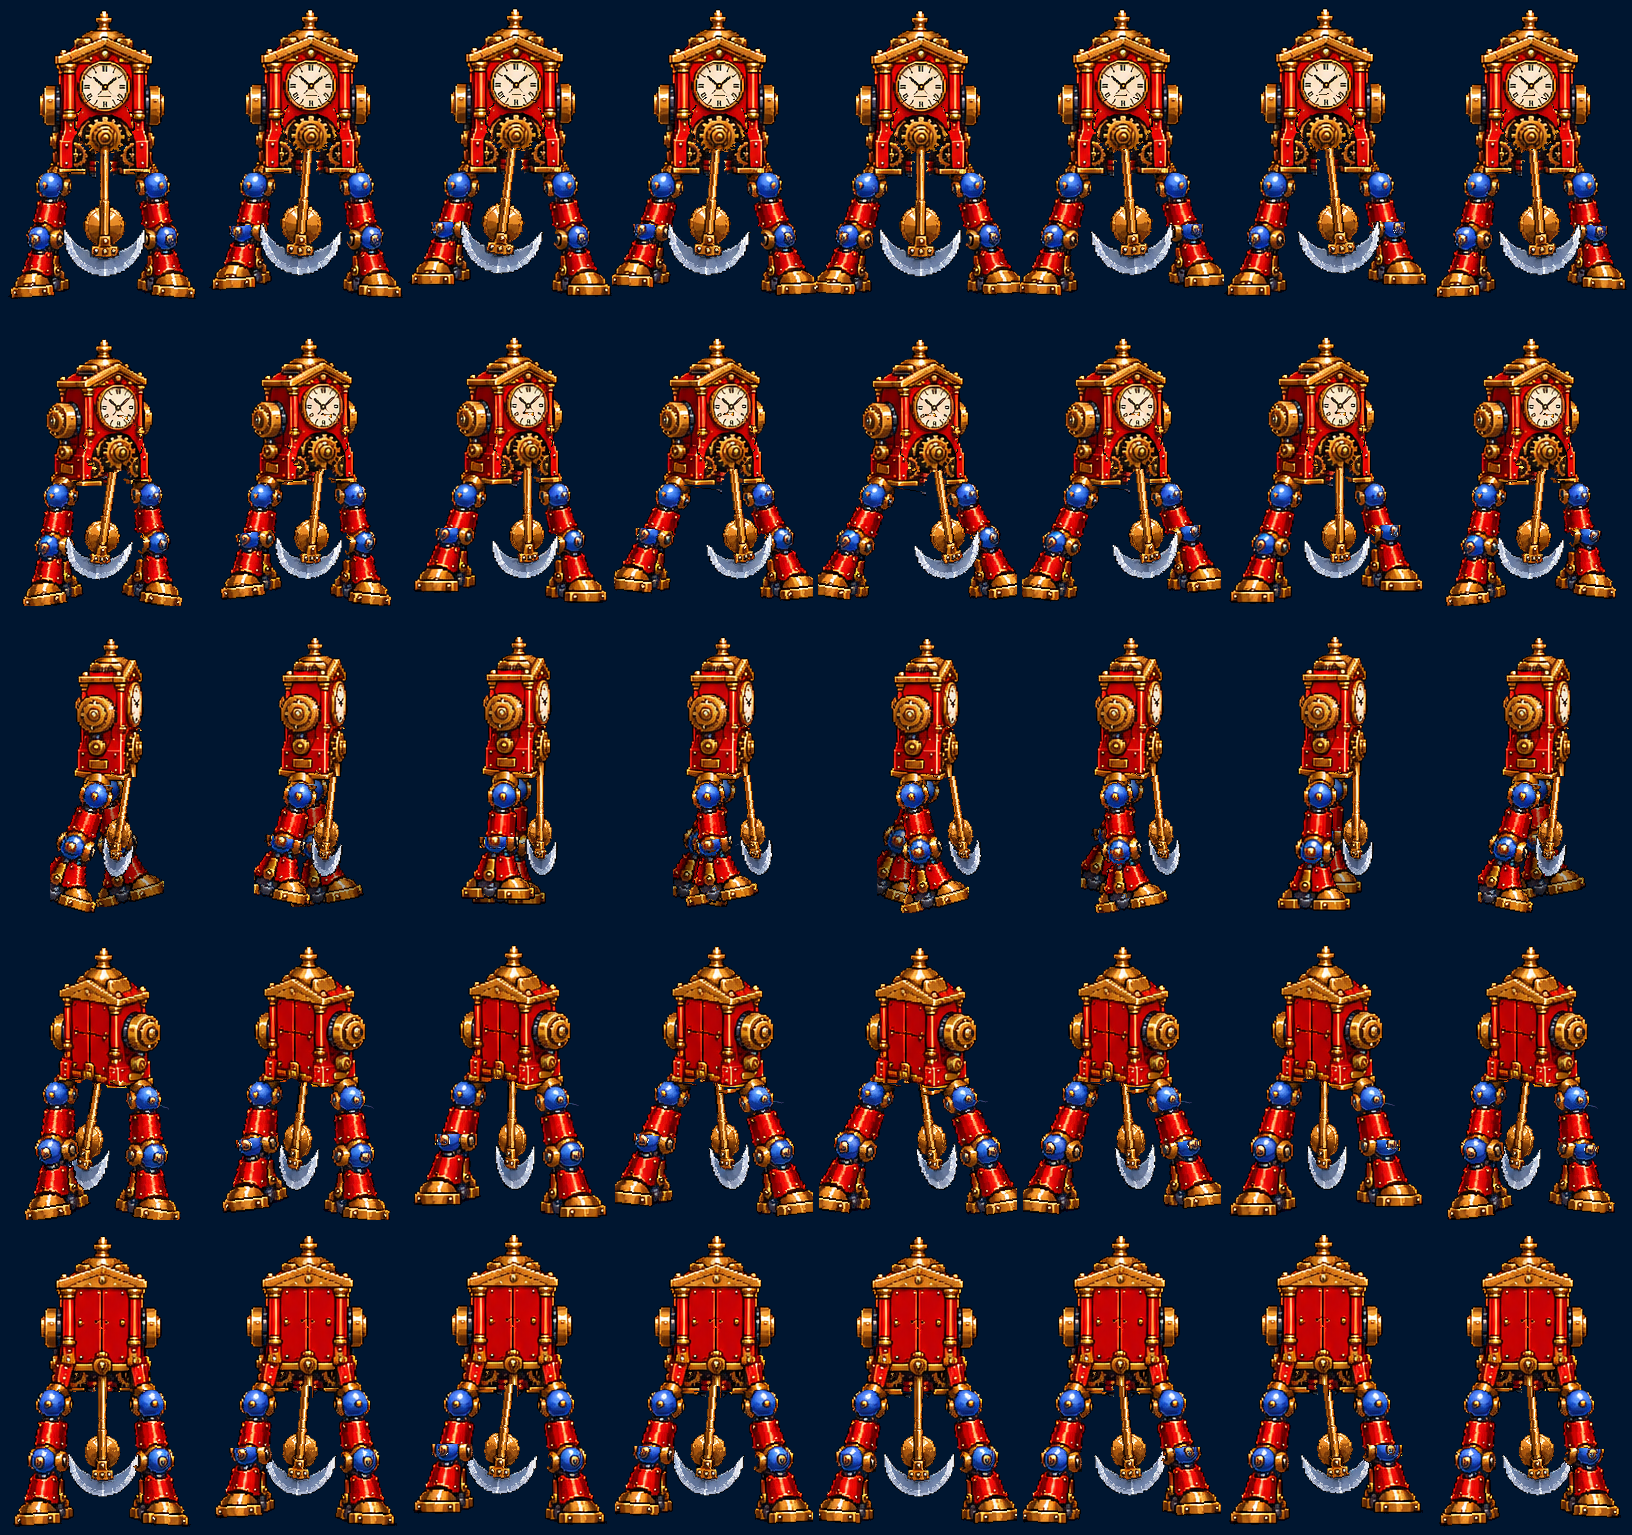
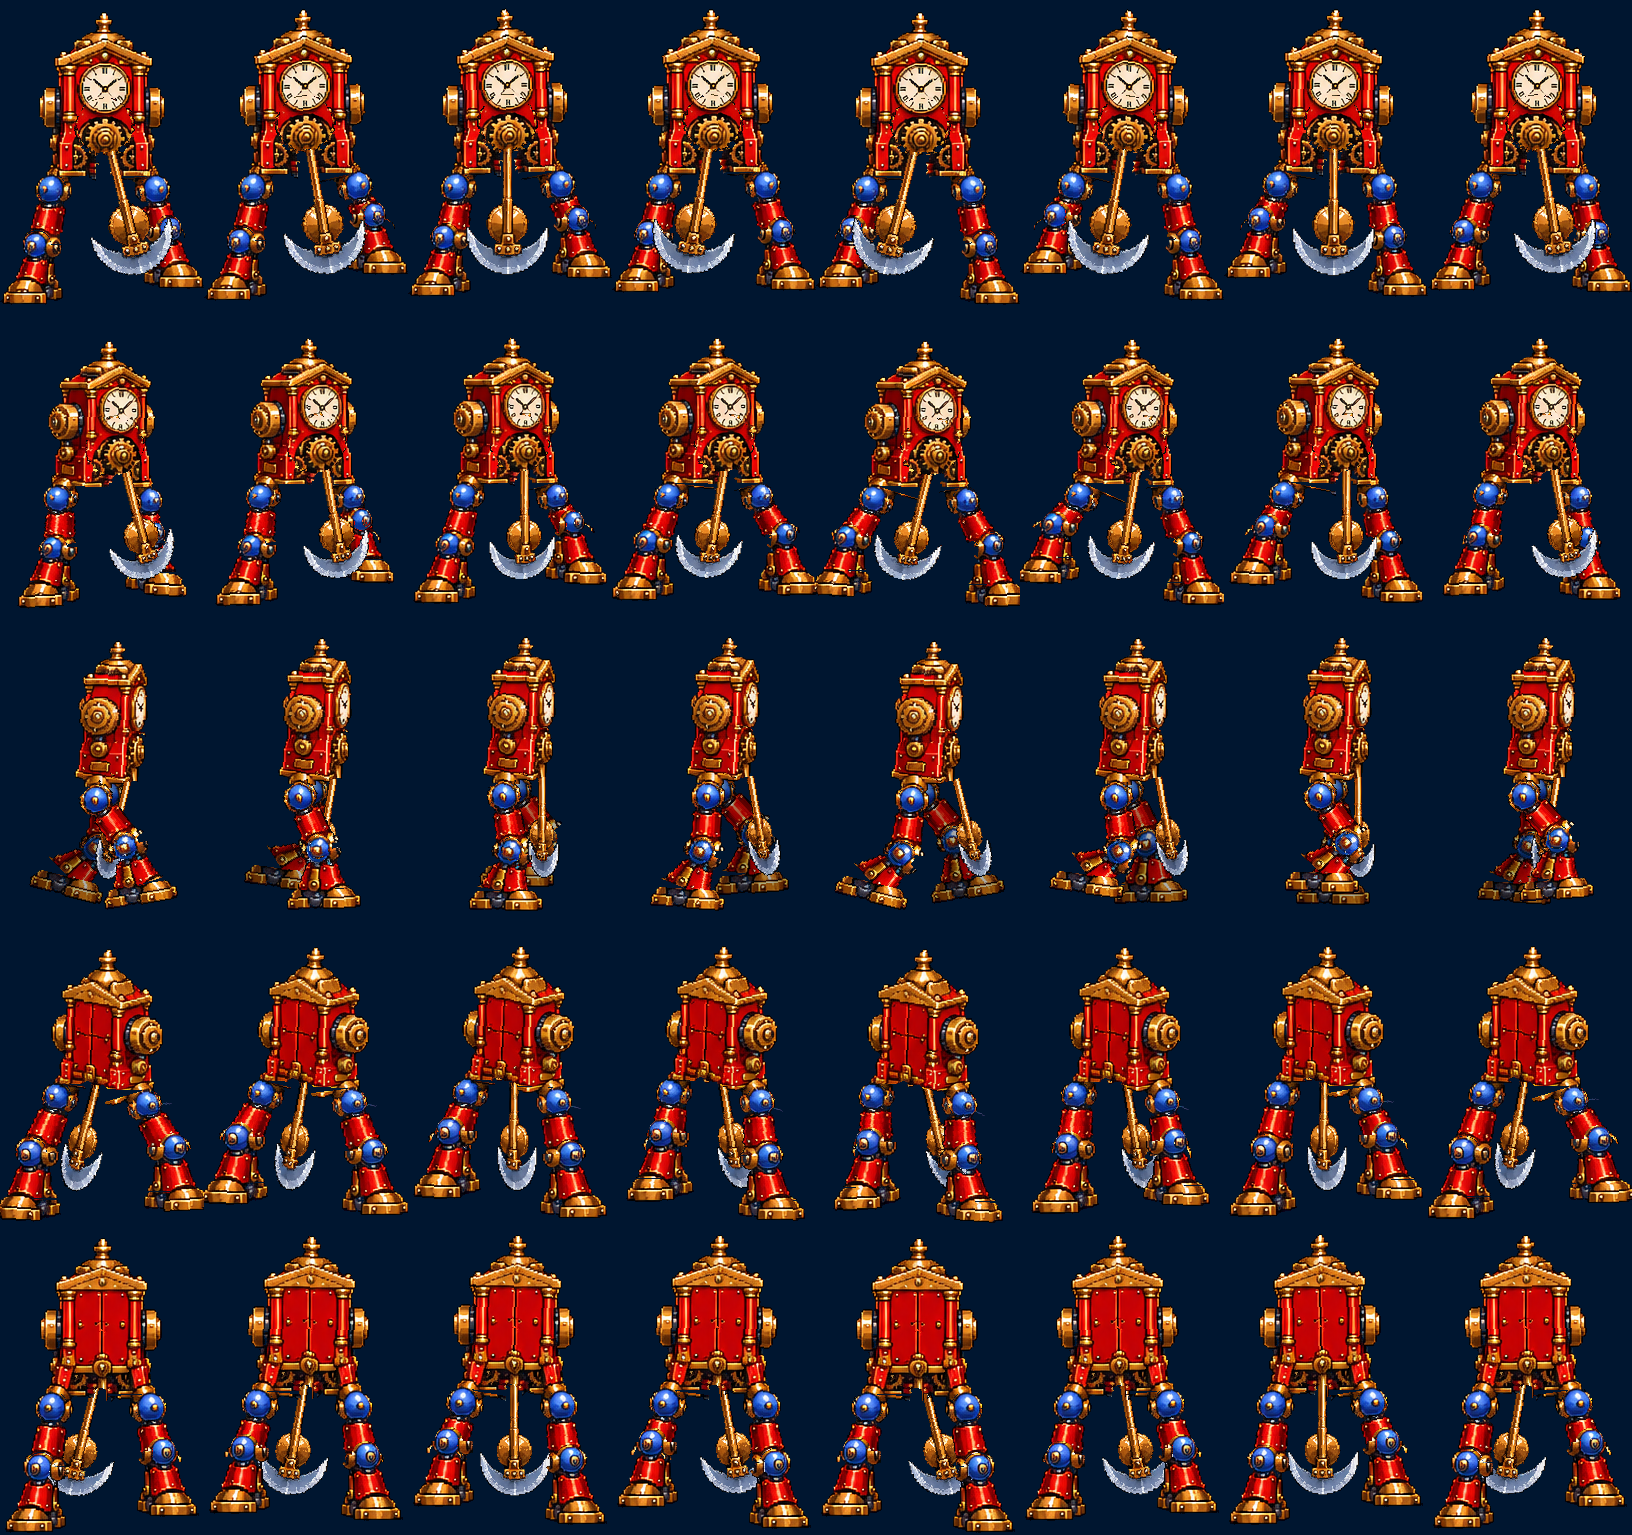
Art: Pendulum walk v3, long strides driven by the pendulum's swing
Two-bone IK legs in the side view (heel strike, flat stance, heel-off push,
toe-down swing, far leg half a cycle behind), telescoping knees in the
front, back and 3/4 views, a stomp dip at double support, and the pendulum
swinging +-14 deg in step: as it swings right the screen-left leg steps.

Claude-Session: https://claude.ai/code/session_01NtmEZhP1uA8k4DLQ7BYfMz

diff --git a/tools/pendulum_guide/walk.py b/tools/pendulum_guide/walk.py
@@ -1,85 +1,227 @@
-"""Pendulum WALK in code from the same painted direction sheet (via anim.py's cut-out body, pendulum and hub): the legs
-are cut off at the hip balls; each leg swings about its hip (a stiff stride, strongest in the side views) and lifts
-by sliding its shin up into the thigh (a telescoping mechanical knee); the body dips when both feet are down and rocks
-over the standing leg; the pendulum lags behind the rocking. The side view's far leg walks half a step behind.
+"""Pendulum WALK in code (v3: long strides, the pendulum drives the gait) from the painted direction sheet, via
+anim.py's cut-out body, pendulum and hub.
+- Each leg = thigh (hip ball to knee), shin (knee ball and the red skirt) and foot (the brass dome and sole), cut at
+  the blue balls and where the skirt meets the dome; the hip ball rides with the body. A two-bone IK (hip to ankle,
+  the knee bends forward) puts the foot on a long stride: a standing foot stays FLAT and slides back at a steady
+  speed (planted while the unit moves), a stepping foot lifts, dangles toe-down and lands flat again.
+- The stride is 3D-ish: each row projects "forward" on screen (side view: across; front and back views: a little
+  down or up; there the bones stretch or shorten along their length instead of turning).
+- The body dips when both feet are down (a heavy stomp; the same dip in every row, set by the side view), sways
+  over the standing leg, leans a little into the walk. The pendulum swings (smaller and slower than the attack) and
+  drives the legs (owner, 2026-10-26): as it swings right the screen-left leg steps forward, as it swings left the
+  screen-right one (side view: swinging forward = the far leg steps, back = the near leg).
 Out: art/redraws/pendulum_walk.png/.gif (5 rows x 8 frames, cells 204 x 307 like pendulum_idle.png)."""
 import math, numpy as np
 from PIL import Image
 from scipy import ndimage as ndi
 exec(open('tools/pendulum_guide/anim.py').read().split("CW,CH=204,307")[0])
-CW,CH=204,307
-# per row: [(hip x, hip y, knee y), ...] from the blue balls; swing amplitude (deg); rocking (px)
-LEGS=[([(52,179,231),(158,179,231)],4,3),
-      ([(56,161,208),(148,159,205)],9,2),
-      ([(46,162,219)],16,0),
-      ([(54,150,206),(144,155,212)],9,2),
-      ([(48,170,227),(148,170,228)],4,3)]
-LIFT=11
+CW,CH=204,307; N=8; PAD=140
+A_STEP=45.0      # a foot travels +-A_STEP px forward/back of the hip (side view px)
+LIFT=19.0        # how high the stepping foot lifts
+HEEL=10.0        # a foot lands heel first, toe up (deg, side view)
+PUSH=14.0        # and pushes off with its heel lifted (deg)
+SWING=14.0       # the pendulum's swing while walking (deg; the attack goes to 62)
+LEAN=2.5         # body leans into the walk (side view, deg)
+ROCK=3.0         # body sways over the standing leg (front view, px)
+ROLL=1.5         # and tilts with it (deg)
+DEPTH=0.17       # screen y per px of forward motion towards/away from the camera (S: the front foot drops 7.7 px)
+FWD=[(0.0,DEPTH),(0.28,0.7*DEPTH),(1.0,0.0),(0.28,-0.7*DEPTH),(0.0,-DEPTH)]   # "forward" on screen per row
+# (the painted 3/4 views hold their legs side by side like the front view, so their stride is mostly up/down too:
+#  a full sideways stride there made the legs do the splits)
+SIDE=[-1.0,-0.7,0.0,0.7,1.0]     # the unit's RIGHT leg: on screen left (-) or right (+), and the sway's share
+PSIGN=[1,1,-1,-1,-1]             # pendulum swing direction while the right leg steps (see the docstring)
+LEANK=[0.0,0.7,1.0,0.7,0.0]
+FAR_SHADE=FARLEG['shade']; FAR_OFF=(FARLEG['dx'],FARLEG['dy'])
+
 def comp_at(mask,x,y):
     lab,n=ndi.label(mask)
     k=lab[y,x]
     if k==0:
         ys,xs=np.nonzero(mask); i=int(np.argmin((xs-x)**2+(ys-y)**2)); k=lab[ys[i],xs[i]]
     return lab==k
+def blue_balls(B):
+    R_,G_,Bc,Aa=[B[...,i].astype(int) for i in range(4)]
+    blue=(Aa>0)&(Bc>R_+40)&(Bc>110)
+    lab,n=ndi.label(blue); out=[]
+    for i,s in enumerate(ndi.find_objects(lab)):
+        m=lab==i+1
+        if m.sum()<40: continue
+        ys,xs=np.nonzero(m)
+        out.append(dict(x=float(xs.mean()),y=float(ys.mean()),r=max(s[0].stop-s[0].start,s[1].stop-s[1].start)/2.0))
+    return out
+def padded(img,W,H):
+    c=Image.new('RGBA',(W+2*PAD,H+2*PAD),(0,0,0,0)); c.paste(img,(PAD,PAD)); return c
+def shade(img,k):
+    a=np.array(img).astype(float); a[...,:3]*=k; return Image.fromarray(a.clip(0,255).astype(np.uint8),'RGBA')
+def ankle_row(B,lm,ky,sy):
+    """where the red skirt ends and the brass dome begins"""
+    R_,G_,Bc=[B[...,i].astype(int) for i in range(3)]
+    red=lm&(R_>140)&(G_<90); brass=lm&(R_>120)&(G_>70)&(Bc<90)&~red
+    for y in range(int(ky)+15,sy):
+        nb,nr=int(brass[y].sum()),int(red[y].sum())
+        if nb>=8 and nb>nr*1.2: return y
+    return int(sy-20)
+
 LEGDATA=[]
 for r in range(5):
     R=ROWS[r]; B=np.array(R['body']); bm=B[...,3]>0; H,W=bm.shape
+    balls=sorted(blue_balls(B),key=lambda b:b['y'])
+    nl=1 if r==2 else 2
+    hips=sorted(balls[:nl],key=lambda b:b['x']); knees=sorted(balls[nl:2*nl],key=lambda b:b['x'])
+    yy,xx=np.mgrid[0:H,0:W]
     legs=[]; rest=bm.copy()
-    for (hx,hy,ky) in LEGS[r][0]:
-        below=bm.copy(); below[:hy-12]=False
-        lm=comp_at(below,hx,hy)
-        rest&=~lm
-        img=B.copy(); img[...,3]=lm*255
-        lower=img.copy(); lower[:ky-4,:,3]=0                 # the shin and foot (from just above the knee ball's middle)
-        upper=img.copy(); upper[ky-4:,:,3]=0
-        legs.append(dict(upper=Image.fromarray(upper,'RGBA'),lower=Image.fromarray(lower,'RGBA'),hip=(hx,hy)))
+    for hb,kb in zip(hips,knees):
+        hx,hy,kx,ky=hb['x'],hb['y'],kb['x'],kb['y']
+        below=bm.copy(); below[:int(hy)-12]=False
+        lm=comp_at(below,int(hx),int(hy)); rest&=~lm
+        ys,xs=np.nonzero(lm); sy=int(ys.max())
+        ay=ankle_row(B,lm,ky,sy)
+        hipd=np.hypot(xx-hx,yy-hy)<=hb['r']+2
+        kned=np.hypot(xx-kx,yy-ky)<=kb['r']+2
+        thigh=lm&~hipd&~kned&(yy<ky)
+        shin=lm&~hipd&((yy>=ky)|kned)&(yy<ay)
+        foot=lm&(yy>=ay)
+        axs=np.nonzero(shin[ay-1])[0]; ax=float(axs.mean()) if len(axs) else kx
+        bys,bxs=np.nonzero(lm&(yy>=sy-4))
+        heel=(float(bxs.min()),float(sy)); toe=(float(bxs.max()),float(sy))   # facing right (side views)
+        def img(m):
+            o=B.copy(); o[...,3]=m*255; return padded(Image.fromarray(o,'RGBA'),W,H)
+        legs.append(dict(hip=(hx,hy),knee=(kx,ky),ankle=(ax,float(ay)),sole=(float(bxs.mean()),float(sy)),heel=heel,toe=toe,
+                         thigh=img(thigh),shin=img(shin),foot=img(foot),hipball=img(lm&hipd)))
     body=B.copy(); body[...,3]=rest*255
-    LEGDATA.append(dict(body=Image.fromarray(body,'RGBA'),legs=legs))
-def leg_img(L,lift,ang,size,shade=1.0):
-    W,H=size; c=Image.new('RGBA',(W,H),(0,0,0,0))
-    c.alpha_composite(L['upper']); c.alpha_composite(L['lower'],(0,-int(round(lift))))
-    if shade!=1.0:
-        a=np.array(c).astype(float); a[...,:3]*=shade; c=Image.fromarray(a.clip(0,255).astype(np.uint8),'RGBA')
-    if ang: c=c.rotate(ang,resample=Image.NEAREST,center=L['hip'])
-    return c
-def frame(r,p):
-    R=ROWS[r]; D=LEGDATA[r]; W,H=R['size']; pad=140; amp,rock=LEGS[r][1],LEGS[r][2]
-    s=math.sin(2*math.pi*p)
-    bob=int(round(2*(1-abs(s))))                      # down when both feet are on the ground
-    bx=int(round(rock*s))                             # rock over the standing leg
-    def place(img,dx=0,dy=0):
-        c=Image.new('RGBA',(W+2*pad,H+2*pad),(0,0,0,0)); c.paste(img,(pad+dx,pad+dy)); return c
-    phases=[p,p+0.5]
-    legimgs=[]
-    for i,L in enumerate(D['legs']):
-        q=phases[i]; lift=LIFT*max(0.0,math.sin(2*math.pi*q))
-        ang=amp*math.cos(2*math.pi*q)*(1 if r!=2 else -1)
-        legimgs.append(leg_img(L,lift,ang,(W,H)))
-    far=None
-    if r==2:      # the side view's far leg: the same leg, darker, half a step behind
-        q=p+0.5; lift=LIFT*max(0.0,math.sin(2*math.pi*q)); ang=-amp*math.cos(2*math.pi*q)
-        far=leg_img(D['legs'][0],lift,ang,(W,H),FARLEG['shade'])
-    pend_ang=-7*s if r in (0,4) else -9*math.cos(2*math.pi*p)
-    piece=place(R['piece'],bx,bob).rotate(pend_ang,resample=Image.NEAREST,center=(R['pivot'][0]+pad+bx,R['pivot'][1]+pad+bob))
-    cv=Image.new('RGBA',(W+2*pad,H+2*pad),(0,0,0,0))
-    if far is not None: cv.alpha_composite(place(far,FARLEG['dx'],FARLEG['dy']))
-    if BEHIND[r]:
-        cv.alpha_composite(piece); cv.alpha_composite(place(D['body'],bx,bob))
-        for li in legimgs: cv.alpha_composite(place(li))
+    LEGDATA.append(dict(body=padded(Image.fromarray(body,'RGBA'),W,H),legs=legs,size=(W,H),
+                        piece=padded(R['piece'],W,H),hub=padded(R['hub'],W,H)))
+
+def foot(q):
+    """forward offset, lift and foot turn (deg, + = toe down) of a foot at gait phase q: 0 = lands in front on its
+    heel, flat by mid-stance, the heel lifts as it pushes off (0.5 = toe-off), then it swings forward in the air"""
+    q%=1.0
+    if q<0.5:
+        f=A_STEP*(1-4*q)
+        phi=-HEEL*(1-q/0.25)**2 if q<0.25 else PUSH*((q-0.25)/0.25)**2
+        return f,0.0,phi
+    t=(q-0.5)/0.5
+    return -A_STEP+A_STEP*(1-math.cos(math.pi*t)),LIFT*math.sin(math.pi*t**0.8),PUSH*(1-t)**2-HEEL*t*t
+def ik(F,D,l1,l2,stretch):
+    d=math.hypot(F,D)
+    k=1.0
+    if d>(l1+l2)*0.9995:
+        if stretch: k=d/((l1+l2)*0.9995)
+        else: d=(l1+l2)*0.9995
+    l1,l2=l1*k,l2*k
+    d=max(abs(l1-l2)+1e-3,d)
+    a=math.acos(max(-1.0,min(1.0,(l1*l1+d*d-l2*l2)/(2*l1*d))))
+    th=math.atan2(F,D)+a                     # the knee bends forward
+    kF,kD=l1*math.sin(th),l1*math.cos(th)
+    vx,vy=F-kF,D-kD; n=math.hypot(vx,vy) or 1.0
+    return (kF,kD),(kF+vx/n*l2,kD+vy/n*l2)
+def rotm(rot):
+    c,s=math.cos(rot),math.sin(rot); return np.array([[c,-s],[s,c]])
+def matrix(v0,v1):
+    """turn v0 onto v1 and stretch along it (the bone keeps its width)"""
+    rot=math.atan2(v1[1],v1[0])-math.atan2(v0[1],v0[0])
+    n0=math.hypot(*v0); u=np.array(v0)/n0
+    return rotm(rot)@(np.eye(2)+(math.hypot(*v1)/n0-1)*np.outer(u,u))
+def place(img,p0,p1,M):
+    """draw img (padded) so that p0 lands on p1 and the rest follows matrix M about it"""
+    Mi=np.linalg.inv(M); a,b=Mi[0]; d,e=Mi[1]
+    P0=(p0[0]+PAD,p0[1]+PAD); P1=(p1[0]+PAD,p1[1]+PAD)
+    return img.transform(img.size,Image.AFFINE,(a,b,P0[0]-a*P1[0]-b*P1[1],d,e,P0[1]-d*P1[0]-e*P1[1]),
+                         resample=Image.NEAREST)
+def sub(a,b): return (a[0]-b[0],a[1]-b[1])
+def add(a,b): return (a[0]+b[0],a[1]+b[1])
+
+def foot_place(L,r,f,h,phi_deg):
+    """where the ankle goes and how the foot turns: on the ground the foot rocks on its heel or toe (that corner
+    stays put), in the air it follows the sole's path; the side view centres the stride under the hip"""
+    fx,fy=FWD[r]
+    phi=math.radians(phi_deg)*fx                      # only the side views see the foot turn
+    shift=(L['hip'][0]-L['ankle'][0]) if r==2 else 0.0
+    dx,dy=shift+f*fx,f*fy
+    if h==0.0 and phi!=0.0:
+        piv=L['toe'] if phi>0 else L['heel']
+        v=rotm(phi)@np.array(sub(L['ankle'],piv))
+        return (piv[0]+dx+v[0],piv[1]+dy+v[1]),phi
+    v=rotm(phi)@np.array(sub(L['sole'],L['ankle']))
+    return (L['sole'][0]+dx-v[0],L['sole'][1]+dy-h-v[1]),phi
+def leg_pose(L,r,hip_s,f,h,phi_deg):
+    """knee and ankle on screen, the foot's turn, and the thigh's and shin's matrices.
+    Side view: a two-bone IK, the knee bends forward. Front, back and 3/4 views: the knee bend would point at the
+    camera and squash the painted shin, so there the shin and foot slide up and down instead (a telescoping knee:
+    the knee ball rides up over the thigh) and the thigh turns (and stretches, never shrinks) to follow"""
+    ank_t,phi=foot_place(L,r,f,h,phi_deg)
+    if r==2:
+        t0=sub(L['knee'],L['hip']); s0=sub(L['ankle'],L['knee'])
+        (kF,kD),(aF,aD)=ik(ank_t[0]-hip_s[0],ank_t[1]-hip_s[1],math.hypot(*t0),math.hypot(*s0),False)
+        knee=(hip_s[0]+kF,hip_s[1]+kD); ank=(hip_s[0]+aF,hip_s[1]+aD)
+        return knee,ank,phi,matrix(t0,sub(knee,hip_s)),matrix(s0,sub(ank,knee))
+    off=sub(ank_t,L['ankle']); knee=add(L['knee'],off)
+    T0=sub(L['knee'],L['hip']); T1=sub(knee,hip_s)
+    n0,n1=math.hypot(*T0),math.hypot(*T1)
+    if n1<n0: T1=(T1[0]*n0/n1,T1[1]*n0/n1)
+    return knee,ank_t,phi,matrix(T0,T1),np.eye(2)
+
+# the body's dip, from the side view: how low the hip must come so both standing legs reach the ground
+_E=LEGDATA[2]['legs'][0]
+_E_L=math.hypot(*sub(_E['knee'],_E['hip']))+math.hypot(*sub(_E['ankle'],_E['knee']))
+def dip(q):
+    d=0.0
+    for p in (q,q+0.5):
+        f,h,phi=foot(p)
+        if h==0.0:
+            a,_=foot_place(_E,2,f,h,phi)
+            dx=a[0]-_E['hip'][0]
+            d=max(d,a[1]-math.sqrt(max(1.0,(0.99*_E_L)**2-dx*dx))-_E['hip'][1])
+    return d
+
+def frame(r,q):
+    D=LEGDATA[r]; R=ROWS[r]; W,H=D['size']; legs=D['legs']
+    s=math.sin(2*math.pi*q)
+    phases=[q] if r==2 else ([q,q+0.5] if SIDE[r]<0 else [q+0.5,q])     # the right leg has phase q
+    bob=dip(q); bx=SIDE[r]*ROCK*s
+    Mb=rotm(math.radians(LEAN*LEANK[r]+SIDE[r]*ROLL*s))
+    piv=(sum(L['hip'][0] for L in legs)/len(legs),sum(L['hip'][1] for L in legs)/len(legs))
+    def body_pt(p):
+        v=Mb@np.array(sub(p,piv)); return (piv[0]+bx+v[0],piv[1]+bob+v[1])
+    cv=Image.new('RGBA',(W+2*PAD,H+2*PAD),(0,0,0,0))
+    def draw_leg(L,ph,off=(0,0),dark=None):
+        Ls=dict(L,**{k:add(L[k],off) for k in ('hip','knee','ankle','sole','heel','toe')})
+        hip_s=body_pt(Ls['hip'])
+        f,h,phi=foot(ph)
+        knee,ank,phi,Mt,Ms=leg_pose(Ls,r,hip_s,f,h,phi)
+        parts=[place(L['thigh'],L['hip'],hip_s,Mt),
+               place(L['shin'],L['knee'],knee,Ms),
+               place(L['foot'],L['ankle'],ank,rotm(phi)),
+               place(L['hipball'],L['hip'],hip_s,Mb)]
+        for p in parts: cv.alpha_composite(shade(p,dark) if dark else p)
+    hub=body_pt(R['pivot'])
+    theta=PSIGN[r]*SWING*math.cos(2*math.pi*q)        # PIL sense: + = the bob goes right
+    pend=place(D['piece'],R['pivot'],hub,rotm(math.radians(-theta)))
+    bodyimg=place(D['body'],piv,(piv[0]+bx,piv[1]+bob),Mb)
+    hubimg=place(D['hub'],piv,(piv[0]+bx,piv[1]+bob),Mb)
+    order=sorted(range(len(legs)),key=lambda i:legs[i]['hip'][1])     # the higher hip is further away
+    if r==2:
+        draw_leg(legs[0],q+0.5,FAR_OFF,FAR_SHADE)                        # the far (left) leg
+        cv.alpha_composite(bodyimg); cv.alpha_composite(pend); cv.alpha_composite(hubimg)
+        draw_leg(legs[0],q)
+    elif BEHIND[r]:
+        cv.alpha_composite(pend)
+        for i in order: draw_leg(legs[i],phases[i])
+        cv.alpha_composite(bodyimg)
     else:
-        cv.alpha_composite(place(D['body'],bx,bob))
-        for li in legimgs: cv.alpha_composite(place(li))
-        cv.alpha_composite(piece); cv.alpha_composite(place(R['hub'],bx,bob))
-    cell=Image.new('RGB',(CW,CH),tuple(NAVY)); x=(CW-cv.width)//2; y=CH-H-8-pad
+        for i in order: draw_leg(legs[i],phases[i])
+        cv.alpha_composite(bodyimg); cv.alpha_composite(pend); cv.alpha_composite(hubimg)
+    cell=Image.new('RGB',(CW,CH),tuple(NAVY)); x=(CW-cv.width)//2; y=CH-H-8-PAD
     cell.paste(cv,(x,y),cv); return cell
-N=8
-sheet=Image.new('RGB',(N*CW,5*CH),tuple(NAVY))
-for r in range(5):
-    for c in range(N): sheet.paste(frame(r,c/N),(c*CW,r*CH))
-sheet.save('art/redraws/pendulum_walk.png'); g=[]
-for c in range(N):
-    o=Image.new('RGB',(5*CW,CH))
-    for r in range(5): o.paste(sheet.crop((c*CW,r*CH,(c+1)*CW,(r+1)*CH)),(r*CW,0))
-    g.append(o)
-g[0].save('art/redraws/pendulum_walk.gif',save_all=True,append_images=g[1:],duration=150,loop=0)
-print('ok')
+
+if __name__=='__main__':
+    sheet=Image.new('RGB',(N*CW,5*CH),tuple(NAVY))
+    for r in range(5):
+        for c in range(N): sheet.paste(frame(r,c/N),(c*CW,r*CH))
+    sheet.save('art/redraws/pendulum_walk.png'); g=[]
+    for c in range(N):
+        o=Image.new('RGB',(5*CW,CH))
+        for r in range(5): o.paste(sheet.crop((c*CW,r*CH,(c+1)*CW,(r+1)*CH)),(r*CW,0))
+        g.append(o)
+    g[0].save('art/redraws/pendulum_walk.gif',save_all=True,append_images=g[1:],duration=140,loop=0)
+    print('ok')

diff --git a/docs/art_style_inconsistency.md b/docs/art_style_inconsistency.md
@@ -115,4 +115,4 @@ Update (v7): the spring comes out along the building's facing, diagonally down a
 - Escapement in the game (assets/buildings/escapement_*): the exported frames (tools/press_anim/escapement_work.py, the wheel and anchor stepped in code, see above) imported like the Cog Press.
 - The JUMP target (Jack.draw_target): the reach ellipse, the landing ring and the arc's dots are drawn in code (UI, like the spell circles).
 - tools/jack_guide/attack_up.py: the Jack's ATTACK UP at flyers (owner: it must raise its arm): the painted launcher arm cut out and raised toward the sky about the shoulder (elbow in the side view), the same small recoil along the raised barrel; art/redraws/jack_attack_up_body.png (5x6, laid out like jack_attack_body.png), .gif, and jack_attack_up_tips.json (the drill tip on the fire frame per direction, for the muzzle burst and the screw's start).
-- tools/pendulum_guide/walk.py: the Pendulum's WALK in code (art/redraws/pendulum_walk.png/.gif, 5x8): legs cut off at the hip balls, each swings about its hip (strongest in the side view) and lifts by sliding the shin up into the thigh (a telescoping knee), the body dips when both feet are down and rocks over the standing leg, the pendulum lags; the side view's far leg walks half a step behind.
+- tools/pendulum_guide/walk.py: the Pendulum's WALK in code (art/redraws/pendulum_walk.png/.gif, 5x8; v3, long strides after the owner found the steps too short): each leg is cut into thigh, shin (knee ball + red skirt) and foot (brass dome + sole). Side view: a two-bone IK (knee forward), the foot lands on its heel, stands flat, pushes off with the heel lifted and dangles toe-down in the air; the far leg is a darker copy half a cycle behind. Front, back and 3/4 views: the shin and foot slide up (a telescoping knee) and the stride shows as the feet moving a little down/up. The body dips at double support, sways over the standing leg, leans 2.5 deg into the walk; the pendulum swings +-14 deg and drives the steps (swinging right = the screen-left leg steps). Joints are rotated paint (NEAREST): the shin/foot seam and turned knee balls want an art pass.
